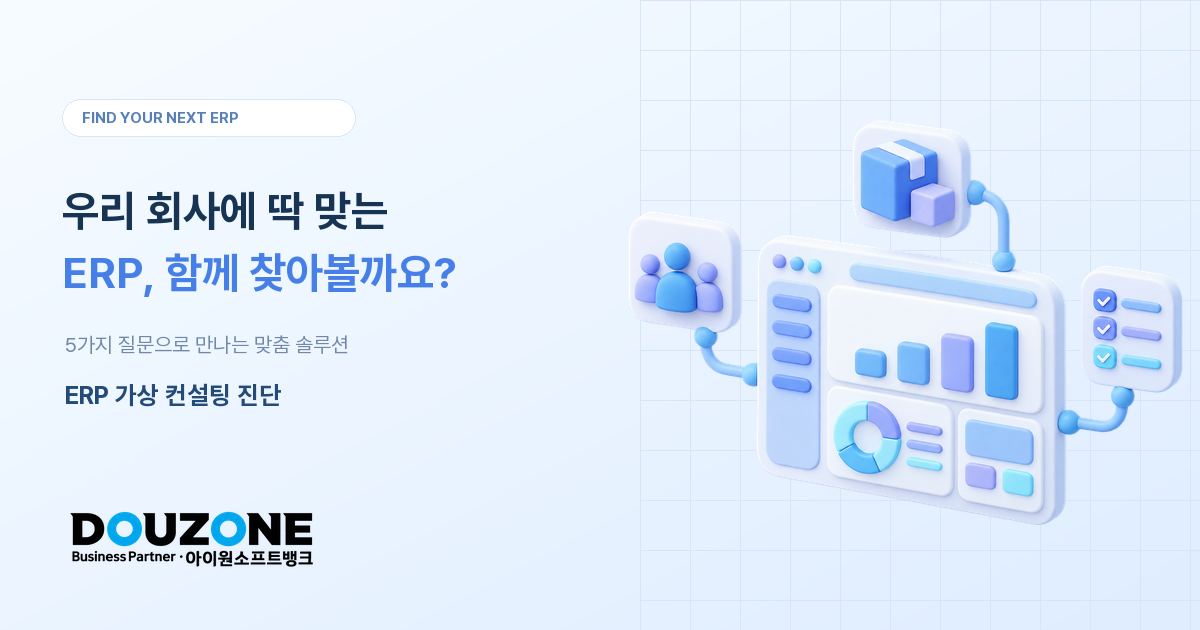
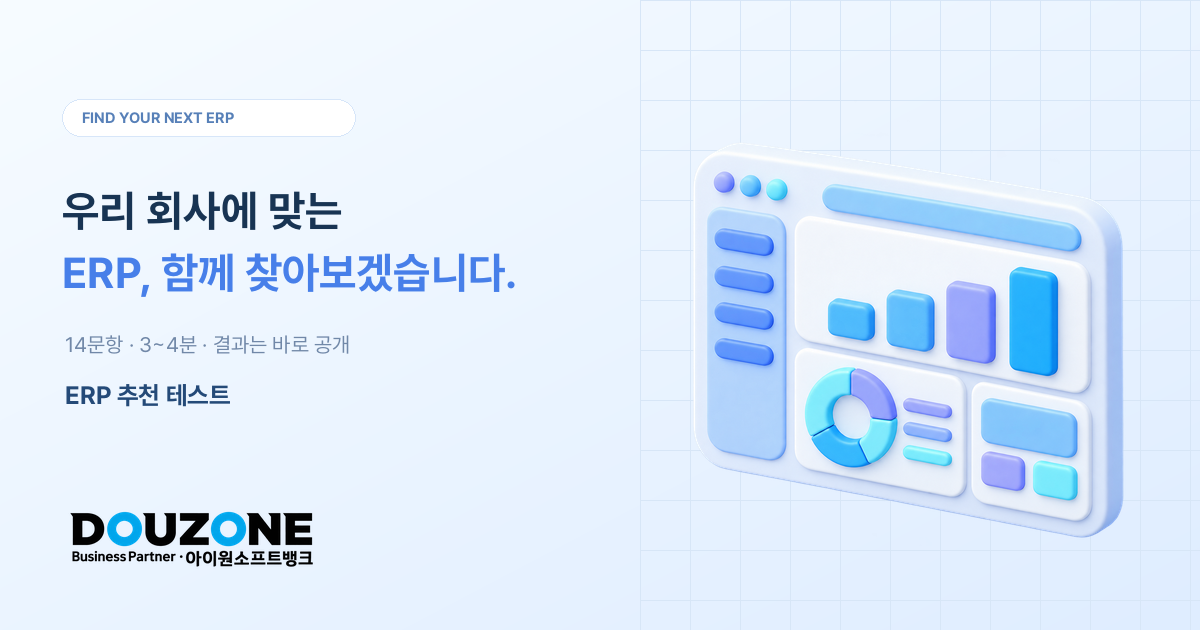
Close guideline gaps found in a re-audit and tighten mobile layout (v3.1)
- 체계 완성형 companion reads 내부회계·K-IFRS18 대응 as in the guideline.
- Groupware and standard-module answers now shape a "모듈 구성" line
  (아마란스10 통합형 / WEHAGO 그룹웨어); path C scope, integration and
  customization answers appear in the recommendation reasons.
- Demo requests no longer ask for a phone number (guideline: phone only
  for the free consultation); lead grade A is consult + phone only.
- Several requests from one result merge into one lead without losing
  the phone number or grade, and every requested item is recorded.
- Share thumbnail and page title updated for the 14-question test.
- Phones: long options stay in one column, short ones (업종) in two;
  consent row and admin image dialog title fit at 320px.
- erp-schema-v3-1.sql relaxes the demo phone constraint.

Claude-Session: https://claude.ai/code/session_01EBPJ3pPVAvWtNzVYKhPfa8

diff --git a/erp.js b/erp.js
@@ -52,12 +52,13 @@ const totalSteps = () => state.answers.system ? questionKeys(state.answers).leng
 function home() {
  state.step=-1;
  mount(`<section class="hero"><div class="hero-copy"><p class="eyebrow">FIND YOUR NEXT ERP</p><h1>우리 회사에 맞는<br><span>ERP, 함께 찾아보겠습니다.</span></h1><p class="hero-description">현재 업무 환경을 점검하고, 회사 규모와 관리 방식에 맞는 <br><strong>더존 ERP 추천 1개와 함께 제안 1개</strong>를 안내합니다.</p><div class="hero-actions"><span class="time-note">약 3~4분 · 14문항 · 결과는 바로 공개</span>${button('우리 회사 ERP 진단하기 <span aria-hidden="true">↗</span>','start')}<a class="button secondary website-link" href="https://www.duzon119.co.kr/">아이원소프트뱅크 웹사이트 바로가기 <span aria-hidden="true">↗</span></a></div><ol class="hero-journey" aria-label="ERP 진단 진행 순서"><li><span class="journey-number" aria-hidden="true">01</span><strong>현재 모습<span>점검하기</span></strong></li><li><span class="journey-number" aria-hidden="true">02</span><strong>함께 성장할<span>방향 찾기</span></strong></li><li><span class="journey-number" aria-hidden="true">03</span><strong>다음 단계<span>제안받기</span></strong></li></ol></div><div class="hero-art"><img class="dashboard" src="assets/erp-dashboard.png" alt="막대그래프와 도넛 차트가 있는 심플한 3D ERP 대시보드" fetchpriority="high" width="1424" height="1104"></div><div class="hero-bottom"><span class="scroll-line"></span> 복잡한 ERP 선택, 이제 쉽게 시작하십시오.</div></section>`,false);
- document.querySelector('#start').onclick=()=>{state.answers={};state.step=0;state.leads=[];question();};
+ document.querySelector('#start').onclick=()=>{state.answers={};state.step=0;state.leads=[];state.lead=null;question();};
 }
 function choiceGroup(key) {
  const multi=multiKeys.includes(key), value=state.answers[key];
  const rows=options[key];
- return `<div class="choices ${rows.length>6?'industry-grid':''}" role="group" aria-label="${esc(questions[key]?.sub?.[key]||questions[key]?.title.replace('\n',' ')||questions.currentErp.sub[key])}">${rows.map(([id,title],i)=>{const selected=multi?value?.includes(id):value===id;return `<button type="button" class="choice ${selected?'selected':''}" data-key="${key}" data-value="${id}" aria-pressed="${!!selected}"><span class="choice-number">${multi?(selected?'✓':'+'):String(i+1).padStart(2,'0')}</span><span><b>${esc(title)}</b></span><span class="choice-check" aria-hidden="true">${selected?'✓':'○'}</span></button>`;}).join('')}</div>`;
+ // 선택지가 많고 짧을 때(업종 등)만 2열로 놓습니다. 긴 문장 선택지는 좁은 화면에서 한 열로 둡니다.
+ return `<div class="choices ${rows.length>6&&rows.every(row=>row[1].length<=14)?'industry-grid':''}" role="group" aria-label="${esc(questions[key]?.sub?.[key]||questions[key]?.title.replace('\n',' ')||questions.currentErp.sub[key])}">${rows.map(([id,title],i)=>{const selected=multi?value?.includes(id):value===id;return `<button type="button" class="choice ${selected?'selected':''}" data-key="${key}" data-value="${id}" aria-pressed="${!!selected}"><span class="choice-number">${multi?(selected?'✓':'+'):String(i+1).padStart(2,'0')}</span><span><b>${esc(title)}</b></span><span class="choice-check" aria-hidden="true">${selected?'✓':'○'}</span></button>`;}).join('')}</div>`;
 }
 function question(focus=true) {
  const keys=questionKeys(state.answers)[state.step], first=keys[0], q=questions[first];
@@ -107,7 +108,7 @@ function reasons(a=state.answers,r=state.result) {
   complete:`외부감사·상장 등 외부 기준에 대응할 수 있도록 내부회계와 그룹웨어까지 갖춘 구성을 골랐습니다.${trigger}`,
   cloud:'지금 쓰시는 더존 ERP의 데이터를 그대로 옮길 수 있어, 익숙한 업무 흐름을 유지하며 더 넓은 환경으로 옮겨 갈 수 있습니다.',
   switch:`다른 회사 ERP에서 옮기시는 경우라, 데이터 이전 지원과 함께 지금의 업무 흐름에 맞는 제품을 비교하도록 했습니다.${trigger}`,
-  custom:r.path==='C'?'지금 쓰시는 ERP는 그대로 두고, 필요한 기능을 더하는 방향으로 구성했습니다.':`선택하신 ${keywords.slice(0,3).map(k=>`‘${k}’`).join(', ')} 업무는 표준 기능에 우리 회사의 방식을 더해야 하므로 맞춤 구성으로 안내합니다.`,
+  custom:r.path==='C'?`지금 쓰시는 ERP는 그대로 두고, ${{team:'한 부서(10명 미만)',multi:'여러 부서(10~50명)',company:'전사(50명 이상)',unknown:'필요한 범위'}[a.scope]}에 필요한 기능을 더하는 방향으로 구성했습니다.${{auto:' 현재 시스템과 데이터가 자동으로 이어지도록 SI 연동을 함께 설계합니다.',partial:' 꼭 필요한 데이터만 이어지도록 연동 범위를 정합니다.'}[a.integration]||''}${{many:' 표준 기능으로 어려웠던 업무는 맞춤 개발 범위로 함께 살펴봅니다.',few:' 표준 기능으로 어려웠던 업무 한두 가지는 설정과 맞춤 개발 중 알맞은 방법을 찾아 드립니다.'}[a.hardTasks]||''}`:`선택하신 ${keywords.slice(0,3).map(k=>`‘${k}’`).join(', ')} 업무는 표준 기능에 우리 회사의 방식을 더해야 하므로 맞춤 구성으로 안내합니다.`,
   full:'업무 전반을 새로 설계하길 원하셔서, 규모와 관계없이 OmniEsol(ERP10) 설계 상담으로 연결합니다.',
  }[r.type];
  return [{title:'지금 가장 시간이 드는 업무부터',text:first+(roleFocus[a.role]||'')},{title:'회사 규모와 현재 시스템에 맞춰',text:scale},{title:'함께 성장할 다음 단계로',text:fit}];
@@ -124,7 +125,7 @@ function resultPage() {
  <div class="result-hero"><span class="pill"><i></i> ERP RECOMMENDATION REPORT</span><p class="result-company">${esc(honorific[a.role])}께 드리는 우리 회사 진단 결과</p><h1>${esc(r.typeLabel)}</h1><p class="result-message">${esc(r.message)}</p><div class="result-chips"><span>${tierLabels[r.tier]} · ${r.tier}</span><span>${pathLabels[r.path]}</span><span>${{cloud:'클라우드 선호',onprem:'구축형 선호',unknown:'구축 방식 상담'}[a.deploy]}</span></div></div>
  ${r.consultFirst?`<div class="panel consult-first"><div><span class="eyebrow">RECOMMENDED NEXT STEP</span><h2>함께 확인하면 더 정확한 결과를 드릴 수 있습니다.</h2><p>‘잘 모르겠습니다’로 답하신 문항이 있어 기본 구성으로 안내합니다. 무료 상담에서 실제 조건을 함께 정리해 드립니다.</p></div><div class="cta-row">${ctaButtons(r)}</div></div>`:''}
  <div class="report-grid"><div class="summary-panel panel"><span class="eyebrow">COMPANY SUMMARY</span><h2>우리 회사 요약</h2><ul class="summary-lines">${summarize(state.answers,state.result).map(line=>`<li>${esc(line)}</li>`).join('')}</ul></div>
- <div class="recommend-panel panel"><span class="eyebrow">RECOMMENDATION</span><h2>주 추천</h2><strong class="route-title">${esc(r.main.name)}</strong><dl class="recommend-meta">${r.companion?`<div><dt>함께 제안</dt><dd>${esc(r.companion)}</dd></div>`:''}${r.proposal?`<div><dt>제안 방식</dt><dd>${esc(r.proposal)}</dd></div>`:''}<div><dt>구축 방식</dt><dd>${deployCopy[a.deploy]}</dd></div></dl></div></div>
+ <div class="recommend-panel panel"><span class="eyebrow">RECOMMENDATION</span><h2>주 추천</h2><strong class="route-title">${esc(r.main.name)}</strong><dl class="recommend-meta">${r.companion?`<div><dt>함께 제안</dt><dd>${esc(r.companion)}</dd></div>`:''}${r.proposal?`<div><dt>제안 방식</dt><dd>${esc(r.proposal)}</dd></div>`:''}<div><dt>모듈 구성</dt><dd>${esc(r.moduleList.join(' + '))}</dd></div><div><dt>구축 방식</dt><dd>${deployCopy[a.deploy]}</dd></div></dl></div></div>
  <div class="reasons panel"><h2>이렇게 추천했습니다</h2>${reasons().map((reason,i)=>`<div class="reason"><span>0${i+1}</span><div><h3>${reason.title}</h3><p>${esc(reason.text)}</p></div></div>`).join('')}</div>
  <div class="extra-grid"><div class="panel extra-card"><span class="eyebrow">ALSO WORTH A LOOK</span><h2>함께 보면 좋은 기능</h2><strong>${esc(r.feature)}</strong><p>${esc(label('industry',a.industry)==='잘 모르겠습니다'?'기본':label('industry',a.industry))} 업종에서 함께 살펴보시면 좋은 기능입니다. 핵심 모듈은 ${esc(r.modules.core)}입니다.</p></div><div class="panel extra-card"><span class="eyebrow">WE'LL SUPPORT YOU</span><h2>${concernTitle}</h2><p>${concernText}</p></div></div>
  ${r.products.length?`<div class="section-title"><div><span class="eyebrow">PRODUCT GUIDE</span><h2>제품 자료</h2></div><span>도입·교체를 확정하는 결과가 아닙니다</span></div><div class="product-grid ${r.products.length===1?'single-product':''}">${r.products.map(productCard).join('')}</div>`:''}
@@ -153,20 +154,20 @@ function decorate() {
  const confetti=document.createElement('canvas');confetti.className='confetti-canvas';confetti.setAttribute('aria-hidden','true');
  app.prepend(confetti);stopCelebration=celebrate(confetti);
 }
-function restart(){state.answers={};state.result=null;state.shared=false;state.leads=[];history.replaceState(null,'',location.pathname);home();}
+function restart(){state.answers={};state.result=null;state.shared=false;state.leads=[];state.lead=null;history.replaceState(null,'',location.pathname);home();}
 
 // 리드 수집: 결과 요약은 입력 없이 공개하고, 상세 리포트·상담·데모·소식 받기를 고를 때만 연락처를 받습니다.
 const leadCopy = {
  report:{ title:'상세 리포트 받기', note:'예상 구성과 도입 절차를 담은 상세 리포트를 메일로 보내 드립니다.', submit:'리포트 신청하기', done:'신청이 접수되었습니다. 입력하신 메일로 상세 리포트를 보내 드리겠습니다.' },
  consult:{ title:'무료 상담 신청', note:'담당자가 영업일 기준 1일 안에 연락드립니다.', submit:'상담 신청하기', done:'상담 신청이 접수되었습니다. 담당자가 영업일 기준 1일 안에 연락드리겠습니다.' },
- demo:{ title:'데모 요청', note:'추천 제품을 실제 화면으로 보여 드릴 일정을 담당자가 조율해 드립니다.', submit:'데모 요청하기', done:'데모 요청이 접수되었습니다. 담당자가 일정 조율을 위해 연락드리겠습니다.' },
+ demo:{ title:'데모 요청', note:'추천 제품을 실제 화면으로 보여 드릴 일정을 담당자가 메일로 조율해 드립니다.', submit:'데모 요청하기', done:'데모 요청이 접수되었습니다. 담당자가 일정 조율을 위해 메일로 연락드리겠습니다.' },
  newsletter:{ title:'새 기능·무료 교육 소식 받기', note:'더존 ERP의 새 기능과 무료 교육 일정을 메일로 안내해 드립니다.', submit:'소식 받기', done:'신청이 완료되었습니다. 새 소식이 있을 때 메일로 안내해 드리겠습니다.' },
 };
 const leadDialog=document.querySelector('#lead-dialog');
 leadDialog.querySelector('.dialog-close').onclick=()=>leadDialog.close();
 function openLead(type) {
- const c=leadCopy[type],phone=type==='consult'||type==='demo',news=type==='newsletter';
- leadDialog.querySelector('.lead-body').innerHTML=`<p class="eyebrow">NEXT STEP</p><h2>${c.title}</h2><p>${c.note}</p><form id="lead-form" class="lead-form" novalidate><label class="field"><span>회사명${news?' <small>(선택)</small>':''}</span><input name="company" autocomplete="organization" maxlength="100" ${news?'':'required'}></label><label class="field">이메일 주소<input name="email" type="email" autocomplete="email" maxlength="254" placeholder="name@company.com" required></label>${phone?`<div class="field-row"><label class="field">담당자명<input name="manager" autocomplete="name" maxlength="60" required></label><label class="field">전화번호<input name="phone" type="tel" autocomplete="tel" maxlength="20" placeholder="010-0000-0000" required></label></div>`:''}${news?'':'<label class="field"><span>직책 <small>(선택)</small></span><input name="job_title" autocomplete="organization-title" maxlength="40" placeholder="예: 재무팀 과장"></label>'}<div class="consent-block"><div class="consent-line"><label><input name="privacy" type="checkbox" required> <span>개인정보 수집·이용에 동의합니다. <b>(필수)</b></span></label><button type="button" class="text-button" id="lead-privacy">내용 보기</button></div><div class="consent-line"><label><input name="marketing" type="checkbox" ${news?'required':''}> <span>마케팅 정보 수신에 동의합니다. <b>${news?'(필수)':'(선택)'}</b></span></label></div></div><p class="error" id="lead-error" role="alert"></p><div class="button-row">${'<button class="button primary" type="submit">'+c.submit+'</button>'}<button class="text-button" type="button" id="lead-cancel">닫기</button></div></form>`;
+ const c=leadCopy[type],phone=type==='consult',named=phone||type==='demo',news=type==='newsletter';
+ leadDialog.querySelector('.lead-body').innerHTML=`<p class="eyebrow">NEXT STEP</p><h2>${c.title}</h2><p>${c.note}</p><form id="lead-form" class="lead-form" novalidate><label class="field"><span>회사명${news?' <small>(선택)</small>':''}</span><input name="company" autocomplete="organization" maxlength="100" ${news?'':'required'}></label><label class="field">이메일 주소<input name="email" type="email" autocomplete="email" maxlength="254" placeholder="name@company.com" required></label>${named?`<div class="field-row"><label class="field">담당자명<input name="manager" autocomplete="name" maxlength="60" required></label>${phone?'<label class="field">전화번호<input name="phone" type="tel" autocomplete="tel" maxlength="20" placeholder="010-0000-0000" required></label>':''}</div>`:''}${news?'':'<label class="field"><span>직책 <small>(선택)</small></span><input name="job_title" autocomplete="organization-title" maxlength="40" placeholder="예: 재무팀 과장"></label>'}<div class="consent-block"><div class="consent-line"><label><input name="privacy" type="checkbox" required> <span>개인정보 수집·이용에 동의합니다. <b>(필수)</b></span></label><button type="button" class="text-button" id="lead-privacy">내용 보기</button></div><div class="consent-line"><label><input name="marketing" type="checkbox" ${news?'required':''}> <span>마케팅 정보 수신에 동의합니다. <b>${news?'(필수)':'(선택)'}</b></span></label></div></div><p class="error" id="lead-error" role="alert"></p><div class="button-row">${'<button class="button primary" type="submit">'+c.submit+'</button>'}<button class="text-button" type="button" id="lead-cancel">닫기</button></div></form>`;
  const form=leadDialog.querySelector('#lead-form');
  leadDialog.querySelector('#lead-privacy').onclick=()=>document.querySelector('#privacy-dialog').showModal();
  leadDialog.querySelector('#lead-cancel').onclick=()=>leadDialog.close();
@@ -180,11 +181,16 @@ async function submitLead(type,form) {
  if(form.elements.phone&&!/^[0-9+\-\s()]{9,20}$/.test(form.elements.phone.value))form.elements.phone.setCustomValidity('전화번호를 숫자와 - 로 입력해 주십시오.');else form.elements.phone?.setCustomValidity('');
  if(!form.reportValidity())return;
  const data=new FormData(form),get=key=>String(data.get(key)||'');
- const lead={type,company:get('company')||null,email:get('email'),job_title:get('job_title')||null,manager:get('manager')||null,phone:get('phone')||null,privacy_agreed:true,marketing_agreed:data.get('marketing')==='on',consented_at:new Date().toISOString()};
+ const now={type,company:get('company')||null,email:get('email'),job_title:get('job_title')||null,manager:get('manager')||null,phone:get('phone')||null,privacy_agreed:true,marketing_agreed:data.get('marketing')==='on',consented_at:new Date().toISOString()};
+ // 같은 결과에서 여러 번 신청하면 한 행에 합칩니다: 더 적극적인 신청 유형을 남기고, 앞서 받은 이름·전화번호·동의는 지우지 않습니다.
+ const prev=state.lead,rank={newsletter:0,report:1,demo:2,consult:3};
+ const lead=prev?{...now,type:rank[prev.type]>rank[type]?prev.type:type,company:now.company||prev.company,job_title:now.job_title||prev.job_title,manager:now.manager||prev.manager,phone:now.phone||prev.phone,marketing_agreed:now.marketing_agreed||prev.marketing_agreed}:now;
+ lead.requests=[...new Set([...(prev?.requests||[]),type])];
+ if(lead.type!=='consult')lead.phone=null;if(!['consult','demo'].includes(lead.type))lead.manager=null;
  const cfg=window.ERP_CONFIG||{};
  form.querySelector('[type=submit]').disabled=true;
  if(cfg.endpoint){const response=await fetch(cfg.endpoint,{method:'POST',headers:{'content-type':'application/json',apikey:cfg.publishableKey},body:JSON.stringify({id:state.id,answers:state.answers,lead})});if(!response.ok)throw Error();}
- state.leads.push(type);
+ state.leads.push(type);state.lead=lead;
  leadDialog.querySelector('.lead-body').innerHTML=`<p class="eyebrow">THANK YOU</p><h2>${leadCopy[type].title}</h2><p class="lead-done">${leadCopy[type].done}</p><div class="button-row"><button class="button primary" type="button" id="lead-close">확인</button></div>`;
  leadDialog.querySelector('#lead-close').onclick=()=>leadDialog.close();
  document.querySelectorAll(`[data-lead="${type}"]`).forEach(btn=>{btn.disabled=true;btn.textContent+=' · 접수 완료';});

diff --git a/erp-admin.js b/erp-admin.js
@@ -13,7 +13,7 @@ const sizeText=row=>isV3(row)?(row.breakdown.tier?`${tierLabels[row.breakdown.ti
 const mainText=row=>isV3(row)?(row.breakdown.main?.name||'추천 없음(감사 엔딩)'):row.recommended_products.join(', ');
 const shortQuestion={role:'직무',timeSink:'시간이 드는 업무',industry:'업종',revenue:'연 매출',audit:'외감·상장',system:'현재 관리 방식',accounting:'결산 방식',projectNeeds:'프로젝트·현장 관리',trigger:'검토 계기',special:'개선·추가 기능',groupware:'그룹웨어',currentErp:'사용 중인 ERP',vendor:'도입한 곳',scope:'확장 규모',integration:'시스템 연동',hardTasks:'표준 기능의 한계',deploy:'구축 방식',timeline:'도입 시기',concern:'걱정되는 점'};
 const answerLines=row=>isV3(row)?questionKeys(row.answers).flat().map(key=>`${shortQuestion[key]}: ${multiKeys.includes(key)?row.answers[key].map(v=>label(key,v)).join(', '):label(key,row.answers[key])}`):Object.entries(row.answers).map(([k,v])=>`${k}: ${Array.isArray(v)?v.join(', '):v}`);
-const leadBadge=row=>`<span class="lead-badge ${row.lead_grade?'grade-'+(row.lead_grade==='이관'?'transfer':row.lead_grade):''}">${esc(leadTypes[row.lead_type]||'이전 버전')}${row.lead_grade?` · ${esc(row.lead_grade)}`:''}</span>`;
+const leadBadge=row=>`<span class="lead-badge ${row.lead_grade?'grade-'+(row.lead_grade==='이관'?'transfer':row.lead_grade):''}">${esc(leadTypes[row.lead_type]||'이전 버전')}${row.lead_grade?` · ${esc(row.lead_grade)}`:''}</span>${row.breakdown?.requests?.length>1?`<br><small class="admin-note">신청: ${row.breakdown.requests.map(t=>esc(leadTypes[t])).join(' · ')}</small>`:''}`;
 const visible=()=>view==='leads'?rows.filter(isLead):view==='answers'?rows.filter(row=>!isLead(row)):rows;
 async function load(offset=0){const cfg=window.ERP_CONFIG;if(!cfg?.endpoint)throw Error('ERP 응답 저장 서버가 아직 연결되지 않았습니다.');const response=await fetch(`${cfg.endpoint}?offset=${offset}`,{headers:{apikey:cfg.publishableKey,'x-admin-token':token}});if(!response.ok)throw Error(response.status===401?'관리자 접근 키를 확인해 주세요.':'응답을 불러오지 못했습니다.');const data=await response.json();rows=offset?[...rows,...data.rows]:data.rows;if(!offset)selected.clear();nextOffset=data.nextOffset;render();}
 function render(){const list=visible(),leads=rows.filter(isLead).length;admin.innerHTML=`<p class="eyebrow">ERP RECOMMENDATION RESPONSES</p><h1>ERP 추천 테스트 응답</h1><p class="admin-note">불러온 ${rows.length}건 중 리드 ${leads}건 · 만료되지 않은 응답만 조회합니다. 리드 등급 A: 상담·데모 신청, B: 이메일 + 도입 6개월 이내, C: 그 외, 이관: 아마란스10 타 부서·파트너 구매.</p><div class="admin-tools"><label class="admin-filter">보기<select id="view"><option value="all"${view==='all'?' selected':''}>전체</option><option value="leads"${view==='leads'?' selected':''}>리드만</option><option value="answers"${view==='answers'?' selected':''}>응답만(연락처 없음)</option></select></label><button class="button secondary" id="refresh">새로고침</button><button class="button primary" id="csv">표시된 응답 CSV</button><button class="button danger" id="delete" disabled>선택 삭제</button><button class="text-button" id="logout">로그아웃</button></div><p class="error" id="admin-error" role="alert"></p><p class="admin-note" id="admin-status" role="status"></p><p class="admin-note">좁은 화면에서는 아래 표를 좌우로 밀어 모든 항목을 확인해 주세요.</p><div class="panel table-scroll" role="region" aria-label="진단 응답 목록 · 가로 스크롤 가능" tabindex="0"><table class="admin-table"><thead><tr><th class="select-cell"><input type="checkbox" id="select-all" aria-label="표시된 응답 전체 선택"${list.length?'':' disabled'}></th><th>진단일</th><th>리드</th><th>회사명</th><th>담당자 · 직책</th><th>연락처</th><th>결과 유형</th><th>규모 · 경로</th><th>업종</th><th>도입 시기</th><th>주 추천</th><th>진단 상세</th></tr></thead><tbody>${list.length?list.map(row=>`<tr><td class="select-cell"><input type="checkbox" class="row-select" data-id="${esc(row.id)}" aria-label="${esc(row.company||'연락처 없는')} 응답 선택"${selected.has(row.id)?' checked':''}></td><td>${esc(dateText(row))}</td><td>${leadBadge(row)}${row.marketing_agreed?'<br><small class="admin-note">마케팅 동의</small>':''}</td><td>${esc(row.company||'-')}</td><td>${esc([row.manager,row.job_title].filter(Boolean).join(' · ')||'-')}</td><td>${esc(row.email||'-')}${row.phone?`<br>${esc(row.phone)}`:''}</td><td>${esc(routeText(row))}</td><td>${esc(sizeText(row))}</td><td>${esc(industryText(row))}</td><td>${esc(isV3(row)&&row.answers.timeline?label('timeline',row.answers.timeline):'-')}</td><td>${esc(mainText(row))}</td><td><button class="text-button report-view" type="button" data-id="${esc(row.id)}">결과 이미지 보기</button><details><summary>답변 보기</summary><p>${answerLines(row).map(esc).join('<br>')}</p></details></td></tr>`).join(''):'<tr><td colspan="12">표시할 응답이 없습니다.</td></tr>'}</tbody></table></div>${nextOffset!==null?'<button class="button secondary" id="more" style="margin-top:20px">더 불러오기</button>':''}`;document.querySelector('#view').onchange=e=>{view=e.target.value;render();};document.querySelector('#refresh').onclick=()=>load().catch(error);document.querySelector('#csv').onclick=csv;document.querySelector('#delete').onclick=()=>removeSelected().catch(error);document.querySelector('#logout').onclick=()=>{token='';rows=[];location.reload();};if(nextOffset!==null)document.querySelector('#more').onclick=()=>load(nextOffset).catch(error);
@@ -32,5 +32,5 @@ async function showReport(row){const contact=[row.company,row.manager,row.email,
  const name=row.company||'응답';const day=new Date(row.created_at).toLocaleDateString('sv-SE',{timeZone:'Asia/Seoul'}).replaceAll('-','');const filename=`ERP-추천결과-${name.replace(/[\\/:*?"<>|\s]+/g,'_')}-${day}.png`;
  reportDialog.querySelector('#report-title').textContent=`${name} 진단 결과`;const img=reportDialog.querySelector('#report-image');img.src=canvas.toDataURL('image/png');img.alt=`${name}의 ERP 추천 결과 이미지`;reportDialog.querySelector('#report-download').onclick=()=>savePng(canvas,filename);reportDialog.showModal();}
 function error(e){document.querySelector('#admin-error').textContent=e.message;}
-function csv(){const fields=[['진단일','리드유형','리드등급','회사명','담당자','직책','이메일','전화번호','마케팅동의','결과유형','규모등급','진입경로','업종','연매출','외감상장','현재관리방식','도입시기','주추천','함께제안','걱정되는점','전체답변','동의시각','규칙버전'],...visible().map(r=>{const v3=isV3(r),a=r.answers,b=r.breakdown;return [r.created_at,leadTypes[r.lead_type]||'이전 버전',r.lead_grade||'',r.company||'',r.manager||'',r.job_title||'',r.email||'',r.phone||'',r.marketing_agreed?'예':'아니요',routeText(r),v3?b.tier||'':'',v3?(b.transfer?'C-내부이관':b.path):'',industryText(r),v3?label('revenue',a.revenue):legacyOptions.revenue[a.revenue]||'',v3?label('audit',a.audit):'',v3?label('system',a.system):'',v3&&a.timeline?label('timeline',a.timeline):'',mainText(r),v3?b.companion||'':'',v3&&a.concern?label('concern',a.concern):'',answerLines(r).join(' / '),r.consented_at||'',r.rule_version];})];const content=''+fields.map(row=>row.map(v=>{let s=String(v??'');if(/^[\s]*[=+@-]/.test(s))s="'"+s;return '"'+s.replace(/"/g,'""')+'"';}).join(',')).join('\r\n');const url=URL.createObjectURL(new Blob([content],{type:'text/csv;charset=utf-8;'}));const link=document.createElement('a');link.href=url;link.download='ERP-추천테스트-응답.csv';link.click();setTimeout(()=>URL.revokeObjectURL(url),1000);}
+function csv(){const fields=[['진단일','리드유형','리드등급','신청항목','회사명','담당자','직책','이메일','전화번호','마케팅동의','결과유형','규모등급','진입경로','업종','연매출','외감상장','현재관리방식','도입시기','주추천','함께제안','걱정되는점','전체답변','동의시각','규칙버전'],...visible().map(r=>{const v3=isV3(r),a=r.answers,b=r.breakdown;return [r.created_at,leadTypes[r.lead_type]||'이전 버전',r.lead_grade||'',(r.breakdown?.requests||[]).map(t=>leadTypes[t]).join(' / '),r.company||'',r.manager||'',r.job_title||'',r.email||'',r.phone||'',r.marketing_agreed?'예':'아니요',routeText(r),v3?b.tier||'':'',v3?(b.transfer?'C-내부이관':b.path):'',industryText(r),v3?label('revenue',a.revenue):legacyOptions.revenue[a.revenue]||'',v3?label('audit',a.audit):'',v3?label('system',a.system):'',v3&&a.timeline?label('timeline',a.timeline):'',mainText(r),v3?b.companion||'':'',v3&&a.concern?label('concern',a.concern):'',answerLines(r).join(' / '),r.consented_at||'',r.rule_version];})];const content=''+fields.map(row=>row.map(v=>{let s=String(v??'');if(/^[\s]*[=+@-]/.test(s))s="'"+s;return '"'+s.replace(/"/g,'""')+'"';}).join(',')).join('\r\n');const url=URL.createObjectURL(new Blob([content],{type:'text/csv;charset=utf-8;'}));const link=document.createElement('a');link.href=url;link.download='ERP-추천테스트-응답.csv';link.click();setTimeout(()=>URL.revokeObjectURL(url),1000);}
 document.querySelector('#auth').onsubmit=async e=>{e.preventDefault();const btn=e.currentTarget.querySelector('button[type=submit]');btn.disabled=true;token=document.querySelector('#token').value;try{await load();}catch(e){token='';document.querySelector('#auth-error').textContent=e.message;btn.disabled=false;}};

diff --git a/index.html b/index.html
@@ -1,7 +1,7 @@
 <!doctype html><html lang="ko"><head>
 <meta charset="utf-8"><meta name="viewport" content="width=device-width,initial-scale=1"><meta name="theme-color" content="#eaf4ff">
-<title>ERP 가상 컨설팅 진단 | 아이원소프트뱅크</title><meta name="description" content="14문항, 3~4분으로 찾는 우리 회사의 다음 ERP. 회사 규모와 현재 관리 방식에 맞춰 더존 ERP 주 추천 1개와 함께 제안 1개를 안내합니다.">
-<meta property="og:type" content="website"><meta property="og:locale" content="ko_KR"><meta property="og:title" content="우리 회사에 맞는 ERP는? | ERP 가상 컨설팅 진단"><meta property="og:description" content="14문항으로 찾는 우리 회사의 다음 ERP."><meta property="og:image" content="/assets/erp-og.png"><meta property="og:image:width" content="1200"><meta property="og:image:height" content="630"><meta name="twitter:card" content="summary_large_image"><meta name="twitter:image" content="/assets/erp-og.png">
+<title>ERP 추천 테스트 | 아이원소프트뱅크</title><meta name="description" content="14문항, 3~4분으로 찾는 우리 회사의 다음 ERP. 회사 규모와 현재 관리 방식에 맞춰 더존 ERP 주 추천 1개와 함께 제안 1개를 안내합니다.">
+<meta property="og:type" content="website"><meta property="og:locale" content="ko_KR"><meta property="og:title" content="우리 회사에 맞는 ERP는? | ERP 추천 테스트"><meta property="og:description" content="14문항으로 찾는 우리 회사의 다음 ERP."><meta property="og:image" content="/assets/erp-og.png"><meta property="og:image:width" content="1200"><meta property="og:image:height" content="630"><meta name="twitter:card" content="summary_large_image"><meta name="twitter:image" content="/assets/erp-og.png">
 <link rel="icon" href="assets/erp-favicon.svg" type="image/svg+xml"><link rel="apple-touch-icon" href="assets/erp-touch.png"><link rel="stylesheet" crossorigin href="https://cdn.jsdelivr.net/gh/orioncactus/pretendard@v1.3.9/dist/web/static/pretendard.css"><link rel="stylesheet" href="erp.css"><script src="erp-config.js" defer></script><script src="erp.js" type="module"></script></head>
 <body><header class="header"><a href="https://www.duzon119.co.kr/" aria-label="아이원소프트뱅크 웹사이트로 이동"><img src="assets/iwon-logo.png" class="logo" alt="DOUZONE Business Partner 아이원소프트뱅크"></a><span class="header-label">ERP VIRTUAL CONSULTING</span></header><main id="app" tabindex="-1"></main><footer class="footer"><span>아이원소프트뱅크</span><span>비즈니스의 다음 가능성을 연결합니다.</span><a class="admin-link" href="erp-admin.html" aria-label="관리자 페이지 · 진단 응답 DB 관리">관리자 페이지 · DB ↗</a></footer>
 <dialog id="privacy-dialog"><form method="dialog"><button class="dialog-close" aria-label="닫기">×</button><p class="eyebrow">PRIVACY</p><h2>개인정보 수집·이용 안내</h2><p><b>수집 항목</b> 상세 리포트: 회사명, 이메일, 직책(선택) · 무료 상담·데모: 회사명, 이메일, 담당자명, 전화번호, 직책(선택) · 소식 받기: 이메일, 회사명(선택)</p><p><b>이용 목적</b> 상세 리포트 발송, 상담·데모 일정 안내와 연락. 마케팅 정보(새 기능·교육 소식) 발송은 별도로 동의하신 경우에만 합니다.</p><p><b>보유 기간</b> 신청일로부터 1년이며, 기간이 지나면 운영자가 삭제합니다.</p><p>진단 응답(회사 규모·현재 시스템 등 선택한 답변)과 결과는 개인을 알아볼 수 없는 형태로 서비스 개선을 위해 저장합니다. 동의를 거부하실 수 있으며, 이 경우 리포트·상담 신청이 제한될 뿐 결과 요약은 그대로 보실 수 있습니다. 문의·삭제 요청은 아이원소프트뱅크 담당자에게 해 주십시오.</p><button class="button primary">확인했습니다</button></form></dialog><dialog id="lead-dialog" aria-label="신청하기"><button class="dialog-close" type="button" aria-label="닫기">×</button><div class="lead-body"></div></dialog></body></html>

diff --git a/supabase/functions/erp-consulting/index.ts b/supabase/functions/erp-consulting/index.ts
@@ -55,14 +55,18 @@ Deno.serve(async (req: Request) => {
       const response = await fetch(endpoint, {method:'POST',headers:{...headers,Prefer:'resolution=ignore-duplicates,return=minimal'},body:JSON.stringify({...row,lead_type:'none',privacy_agreed:false})});
       return response.ok ? json({ok:true,result},201) : json({error:'Could not save assessment'},502);
     }
-    const lead = body.lead, needsContact = ['consult','demo'].includes(lead?.type), optional = (v: unknown, max: number) => v === null || v === undefined || validText(v,max);
+    // 전화번호는 무료 상담에서만 받습니다. 데모 요청은 담당자명까지 받습니다.
+    const lead = body.lead, needsPhone = lead?.type === 'consult', needsName = needsPhone || lead?.type === 'demo', optional = (v: unknown, max: number) => v === null || v === undefined || validText(v,max);
     if (!lead || !['report','consult','demo','newsletter'].includes(lead.type) || !validText(lead.email,254) || !/^[^\s@]+@[^\s@]+\.[^\s@]+$/.test(lead.email.trim()) || lead.privacy_agreed !== true || typeof lead.marketing_agreed !== 'boolean' || (lead.type === 'newsletter' && !lead.marketing_agreed)) return json({error:'Invalid lead'},400);
-    if (!(lead.type === 'newsletter' ? optional(lead.company,100) : validText(lead.company,100)) || !optional(lead.job_title,40) || !(needsContact ? validText(lead.manager,60) && typeof lead.phone === 'string' && /^[0-9+\-\s()]{9,20}$/.test(lead.phone.trim()) : lead.manager == null && lead.phone == null)) return json({error:'Invalid lead'},400);
+    if (!(lead.type === 'newsletter' ? optional(lead.company,100) : validText(lead.company,100)) || !optional(lead.job_title,40) || !(needsName ? validText(lead.manager,60) : lead.manager == null) || !(needsPhone ? typeof lead.phone === 'string' && /^[0-9+\-\s()]{9,20}$/.test(lead.phone.trim()) : lead.phone == null)) return json({error:'Invalid lead'},400);
+    // 같은 결과에서 신청한 항목(리포트·상담·데모·소식) 전체. 행에는 가장 적극적인 신청 유형 하나만 lead_type으로 남습니다.
+    const requests = lead.requests === undefined ? [lead.type] : lead.requests;
+    if (!Array.isArray(requests) || !requests.length || requests.length > 4 || new Set(requests).size !== requests.length || !requests.every((t: unknown) => ['report','consult','demo','newsletter'].includes(t as string)) || !requests.includes(lead.type)) return json({error:'Invalid lead'},400);
     const consented = Date.parse(lead.consented_at);
     if (!Number.isFinite(consented) || consented > Date.now()+300000 || consented < Date.now()-86400000) return json({error:'Invalid consent timestamp'},400);
     const trim = (v: unknown) => typeof v === 'string' && v.trim() ? v.trim() : null;
     const contact = {lead_type:lead.type,company:trim(lead.company),email:lead.email.trim(),job_title:trim(lead.job_title),manager:trim(lead.manager),phone:trim(lead.phone),privacy_agreed:true,marketing_agreed:lead.marketing_agreed,consented_at:new Date(consented).toISOString()};
-    const response = await fetch(`${endpoint}?on_conflict=id`, {method:'POST',headers:{...headers,Prefer:'resolution=merge-duplicates,return=minimal'},body:JSON.stringify({...row,...contact,lead_grade:leadGrade({type:lead.type,email:contact.email,phone:contact.phone},answers,result)})});
+    const response = await fetch(`${endpoint}?on_conflict=id`, {method:'POST',headers:{...headers,Prefer:'resolution=merge-duplicates,return=minimal'},body:JSON.stringify({...row,breakdown:{...result,requests},...contact,lead_grade:leadGrade({type:lead.type,email:contact.email,phone:contact.phone},answers,result)})});
     return response.ok ? json({ok:true,result},201) : json({error:'Could not save lead'},502);
   } catch { return json({error:'Service temporarily unavailable'},503); }
 });

diff --git a/erp.css b/erp.css
@@ -187,3 +187,12 @@ dialog{max-height:calc(100dvh - 32px);overflow:auto;overscroll-behavior:contain}
 /* 한글은 어절 단위로 줄바꿈하고, 너무 긴 단어만 강제로 나눕니다. */
 body{word-break:keep-all;overflow-wrap:break-word}
 @media(max-width:520px){.hero-description br{display:none}}
+.header>a{display:inline-flex;align-items:center;flex-shrink:0;max-width:60%}.header>a .logo{max-width:100%;height:auto}
+/* 짧은 선택지(업종 등)는 휴대폰에서도 2열로 두어 세로로 길게 늘어지지 않게 합니다. */
+@media(max-width:520px){.industry-grid{grid-template-columns:repeat(2,minmax(0,1fr));gap:8px}.industry-grid .choice{display:flex;align-items:center;gap:8px;min-height:60px;padding:12px 10px}.industry-grid .choice-number{flex-shrink:0;width:22px;height:22px;font-size:10px}.industry-grid .choice b{font-size:13px;line-height:1.35}}
+.lead-form .consent-line{flex-wrap:nowrap;align-items:center;gap:10px}
+.lead-form .consent-line label{flex:1 1 auto;min-width:0;min-height:0}
+.lead-form .consent-line .text-button{flex-shrink:0;min-height:36px;padding:6px 12px;font-size:12px}
+.report-dialog h2{font-size:22px;line-height:1.4}
+.industry-grid .choice[data-value="unknown"]{grid-column:1/-1}
+@media(max-width:520px){.report-dialog h2{font-size:18px}}

diff --git a/erp-report.js b/erp-report.js
@@ -74,7 +74,7 @@ export async function drawResultCard({ answers, result, summary, contact }) {
   ctx.fillStyle='#14294b';ctx.font='700 22px Pretendard, sans-serif';ctx.fillText('우리 회사 요약',110,y);y+=40;
   ctx.fillStyle='#4d6385';ctx.font='400 21px Pretendard, sans-serif';for(const line of summary)y=wrap(ctx,'·  '+line,110,y,980,32)+4;
   y+=26;const top=y-12;
-  const rows=[['함께 제안',result.companion],['함께 보면 좋은 기능',result.feature]].filter(row=>row[1]);
+  const rows=[['함께 제안',result.companion],['모듈 구성',(result.moduleList||[]).join(' + ')],['함께 보면 좋은 기능',result.feature]].filter(row=>row[1]);
   const box=draw=>{
    if(draw){ctx.fillStyle='#8a9bb3';ctx.font='600 19px Pretendard, sans-serif';ctx.fillText('주 추천',130,y+30);}
    ctx.fillStyle='#2f63d8';ctx.font='800 32px Pretendard, sans-serif';let by=wrap(ctx,result.main.name,130,y+76,920,44,draw);

diff --git a/scripts/create-social-assets.py b/scripts/create-social-assets.py
@@ -20,10 +20,10 @@ for x in range(640,1200,50): draw.line((x,0,x,630), fill=(215,230,247,255))
 for y in range(0,630,50): draw.line((640,y,1200,y), fill=(215,230,247,255))
 draw.rounded_rectangle((62,99,355,136),radius=18,fill='#ffffff',outline='#d7e6f9')
 draw.text((82,108),'FIND YOUR NEXT ERP',font=font(15,True),fill='#5780b8')
-draw.text((62,185),'우리 회사에 딱 맞는',font=font(43,True),fill='#183453')
-draw.text((62,247),'ERP, 함께 찾아볼까요?',font=font(43,True),fill='#477fe9')
-draw.text((65,332),'5가지 질문으로 만나는 맞춤 솔루션',font=font(21),fill='#7188a8')
-draw.text((65,380),'ERP 가상 컨설팅 진단',font=font(25,True),fill='#244a78')
+draw.text((62,185),'우리 회사에 맞는',font=font(43,True),fill='#183453')
+draw.text((62,247),'ERP, 함께 찾아보겠습니다.',font=font(43,True),fill='#477fe9')
+draw.text((65,332),'14문항 · 3~4분 · 결과는 바로 공개',font=font(21),fill='#7188a8')
+draw.text((65,380),'ERP 추천 테스트',font=font(25,True),fill='#244a78')
 logo = Image.open(asset / 'iwon-logo.png').convert('RGBA')
 logo.thumbnail((260,95),Image.Resampling.LANCZOS)
 im.alpha_composite(logo,(62,492))

diff --git a/docs/NEXT-STEPS.md b/docs/NEXT-STEPS.md
@@ -11,9 +11,9 @@
 | 사이트 | https://erptest-jet.vercel.app/ — `main`에 push하면 Vercel이 자동 배포 |
 | 관리자 화면 | https://erptest-jet.vercel.app/erp-admin.html — 관리자 접근 키(Supabase `ADMIN_TOKEN`) 필요 |
 | 추천 규칙 | `erp-2026-10-v3` (`supabase/functions/_shared/erp-rules.js`, 테스트 `tests/erp-rules.test.mjs`) |
-| Supabase DB | `erp_consulting_responses` 테이블에 `erp-schema-v3.sql` 적용 완료(2026-10-28) |
+| Supabase DB | `erp_consulting_responses` 테이블에 `erp-schema-v3.sql` + `erp-schema-v3-1.sql` 적용 |
 | Supabase 서버 함수 | `erp-consulting` v3 배포 완료(2026-10-28). 삭제(DELETE) 기능 포함 |
-| 테스트 | `npm test` 29개 통과 |
+| 테스트 | `npm test` 32개 통과 + 전체 응답 조합 802,030가지 규칙 검사 통과 |
 | 저장소 권한 | `eeummsquare-main-repo` 계정이 협업자(쓰기 권한). 저장소는 비공개 |
 
 **주의:** 서버 함수와 DB는 git push로 바뀌지 않습니다. `supabase/functions/` 를 고치면 `npm run build:function` 으로 만든 `.tmp/erp-consulting.ts` 를 Supabase 대시보드 Edge Functions → `erp-consulting` → Code에 붙여 넣고 Deploy해야 합니다. DB 구조를 바꾸면 SQL Editor에서 직접 실행해야 합니다. 사이트가 새 서버 함수에 의존하면 **SQL → 함수 → 사이트 push** 순서를 지킵니다.
@@ -28,6 +28,8 @@
 | 2026-10-26 | `8ccfb07` | 글자만 있던 버튼에 3단계(연한 바탕 + 테두리) 버튼 스타일 적용 |
 | 2026-10-26 | `7dd0367` | 나란히 놓인 버튼 간격 12px, 높이 44px로 통일 |
 | 2026-10-28 | `d8e6469` | 기획 가이드라인 v3 전면 반영(아래 3장) + 모바일 반응형 점검 |
+| 2026-10-28 | `1acdbde` | 이 문서 추가 |
+| 2026-10-28 | (v3.1) | 재점검 반영: 체계 완성형 함께 제안 “K-IFRS18”, 그룹웨어·표준 모듈을 “모듈 구성”으로 표시, C 경로 7~9번 답변을 추천 이유에 반영, 데모 요청은 전화번호 없이(가이드라인: 전화번호는 무료 상담 때만), 리드 A 등급은 무료 상담 + 전화번호만, 같은 결과에서 여러 번 신청해도 연락처·등급이 지워지지 않게 합치고 신청 항목 전체 기록, 공유 썸네일(OG) 문구 갱신, 휴대폰에서 긴 선택지는 1열·짧은 선택지는 2열 |
 
 ## 3. 가이드라인 반영 현황
 
@@ -42,7 +44,7 @@
 
 ### 아직 하지 않은 것 (가이드라인에는 있으나 테스트 페이지 밖의 작업)
 - **상세 리포트(PDF, 예상 구성·도입 절차 포함) 생성과 메일 발송:** 자동 생성·발송 없음. 지금은 관리자 화면에서 리드를 보고 담당자가 직접 보냅니다.
-- **리드 등급별 후속 조치 자동화:** A 영업일 1일 내 전화, B 리포트 메일의 "담당자와 15분 통화 예약" 링크·3영업일 내 맞춤 메일, C EDM·뉴스레터. 신규 리드 **알림(메일·슬랙 등)도 없어서** A 등급을 놓치지 않으려면 관리자 화면을 자주 확인해야 합니다.
+- **리드 등급별 후속 조치 자동화:** A(무료 상담 + 전화번호) 영업일 1일 내 전화, B 리포트 메일의 "담당자와 15분 통화 예약" 링크·3영업일 내 맞춤 메일, C EDM·뉴스레터. 신규 리드 **알림(메일·슬랙 등)도 없어서** A 등급을 놓치지 않으려면 관리자 화면을 자주 확인해야 합니다.
 - **시트·CRM 연동:** Supabase 저장 + CSV 내려받기만 있음.
 - **성과 지표:** 완료 수·유형별 분포·리포트 신청 전환율·등급별 분포는 DB/CSV로 계산 가능. **시작률**(시작만 하고 그만둔 수)은 저장하지 않아 측정 불가 — 방문 분석 도구 연결 필요.
 - **결과 유형별 이미지 카드·일러스트·쇼츠:** 지금은 7종 공통 템플릿 1개(온이·원이 캐릭터 포함).
@@ -74,4 +76,5 @@
 
 - 규칙·문구 원본: `supabase/functions/_shared/erp-rules.js` · 화면: `erp.js` · 결과 이미지: `erp-report.js` · 관리자: `erp-admin.js`
 - 서버: `supabase/functions/erp-consulting/index.ts` · DB 변경 기록: `erp-schema.sql`, `erp-schema-v3.sql` · 운영 방법: `docs/SETUP.md`
-- 모바일 점검: 320·360·390·768·1024·1300px에서 모든 경로의 질문·결과·신청 창·관리자 화면에 넘침 없음(2026-10-28)
+- 모바일 점검(2026-10-28): 320·360·390·430px에서 모든 질문·결과 유형 8종·신청 창 4종·개인정보 창·관리자 목록·이미지 창을 자동 검사(화면 밖 넘침, 좁은 칸에 몰린 글자, 상자보다 큰 이미지) — 문제 없음. 768·1024·1300px도 넘침 없음.
+- 예외 규칙 해석: 가이드라인의 “먼저 맞는 규칙 하나만”은 같은 성격의 규칙끼리 적용했습니다. 결과 유형(전면 설계형 → 맞춤 설계형)과 규모 등급(외감·회계팀 상향, 잘 모름 3개 이상 T2)은 서로 독립적으로 적용하고, 잘 모름 3개 이상이면 상담 CTA를 맨 위로 올립니다.

diff --git a/docs/SETUP.md b/docs/SETUP.md
@@ -37,7 +37,7 @@
 - 테이블 RLS 활성화, `anon`/`authenticated` 테이블 권한 제거, 서버 역할로만 접근.
 - 서버 환경변수: 기존 `SUPABASE_URL`, `SUPABASE_SERVICE_ROLE_KEY`, `ADMIN_TOKEN` 재사용. 비밀값은 조회·복사·커밋하지 않았습니다.
 - POST(v3): `{id, answers}`는 연락처 없이 응답·결과 유형·규모 등급·진입 경로를 저장하고(같은 id가 있으면 무시), `{id, answers, lead}`는 같은 행에 연락처·동의·리드 등급을 upsert합니다. 결과는 항상 서버가 공유 규칙으로 다시 계산합니다.
-- v3 DB 변경: `erp-schema-v3.sql`(연락처 컬럼 nullable, `lead_type`·`lead_grade`·`phone`·`job_title`·`marketing_agreed`·`result_type`·`size_tier`·`entry_path`·`timeline` 추가, 서버 역할 update 권한). 대시보드 SQL Editor에서 한 번 실행하며 기존 응답은 `lead_type = 'legacy'`로 남습니다. 상세 리포트 메일은 자동 발송하지 않으며, 관리자 화면의 리드 목록을 보고 담당자가 보냅니다.
+- v3 DB 변경: `erp-schema-v3.sql`(연락처 컬럼 nullable, `lead_type`·`lead_grade`·`phone`·`job_title`·`marketing_agreed`·`result_type`·`size_tier`·`entry_path`·`timeline` 추가, 서버 역할 update 권한). 대시보드 SQL Editor에서 한 번 실행하며 기존 응답은 `lead_type = 'legacy'`로 남습니다. v3.1 제약 조건 수정(데모 요청은 전화번호 없이)은 `erp-schema-v3-1.sql`입니다. 같은 결과에서 여러 번 신청하면 한 행에 합치고(`lead_type`은 무료 상담 > 데모 > 리포트 > 소식 순으로 가장 적극적인 것), 신청 항목 전체는 `breakdown.requests`에 남깁니다. 상세 리포트 메일은 자동 발송하지 않으며, 관리자 화면의 리드 목록을 보고 담당자가 보냅니다.
 - GET: `x-admin-token` 필수, 200건 단위 페이지네이션, 만료 응답 제외.
 - DELETE: `x-admin-token` 필수, 본문 `{"ids": [UUID, …]}`(최대 200건, 중복·형식 오류 거부)로 선택한 응답만 삭제하고 실제 삭제된 id를 돌려줍니다. 관리자 화면의 체크박스 선택 → `선택 삭제`가 이 요청을 보냅니다.
 - 프런트엔드: 공개 `apikey` 사용. 배포된 함수의 기본 JWT 설정을 변경하지 않은 상태에서 정상 호출을 검증했습니다.
